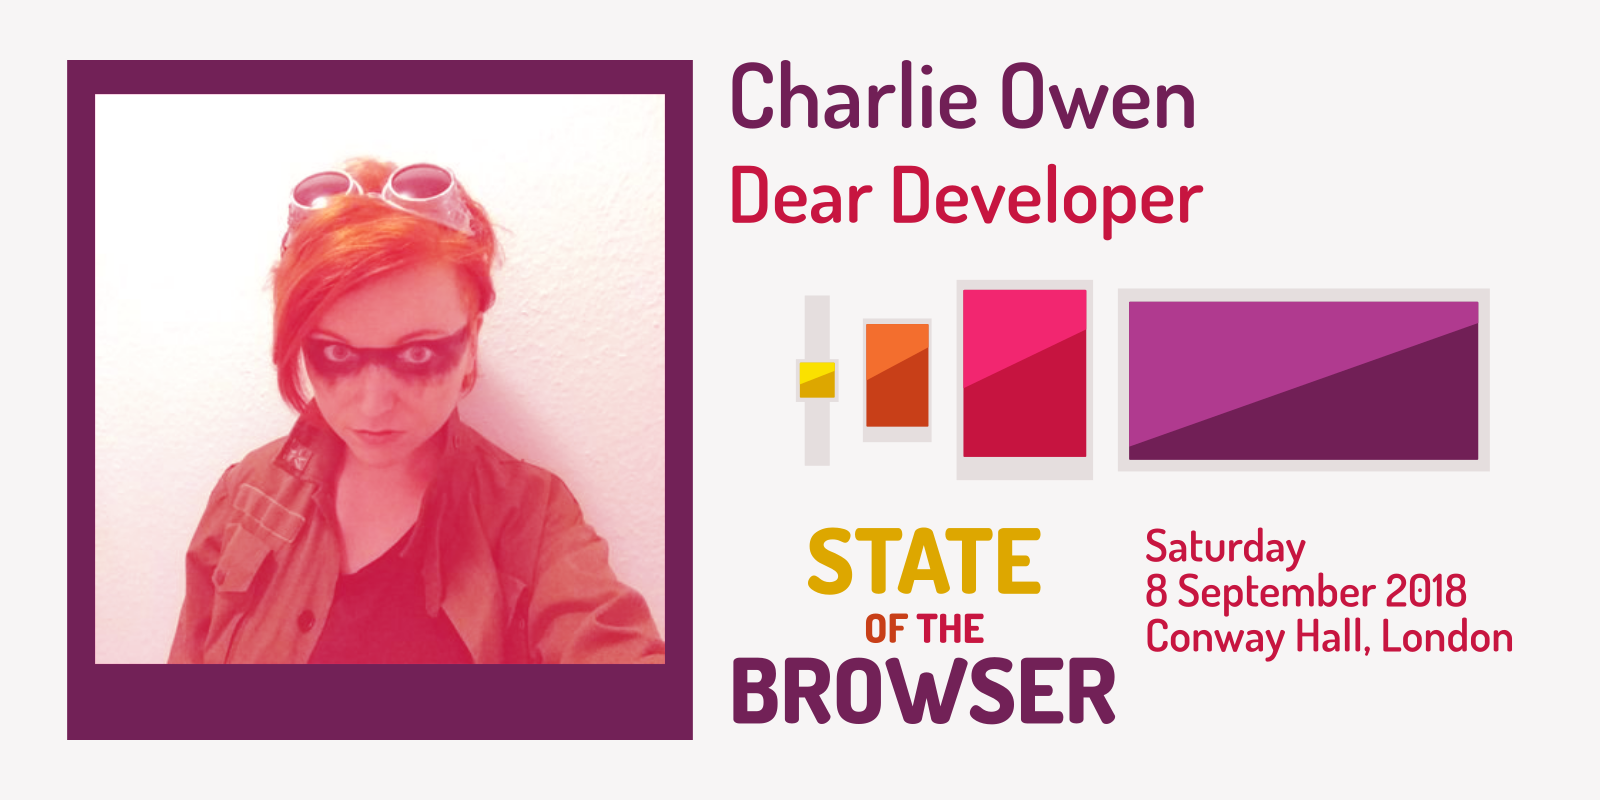
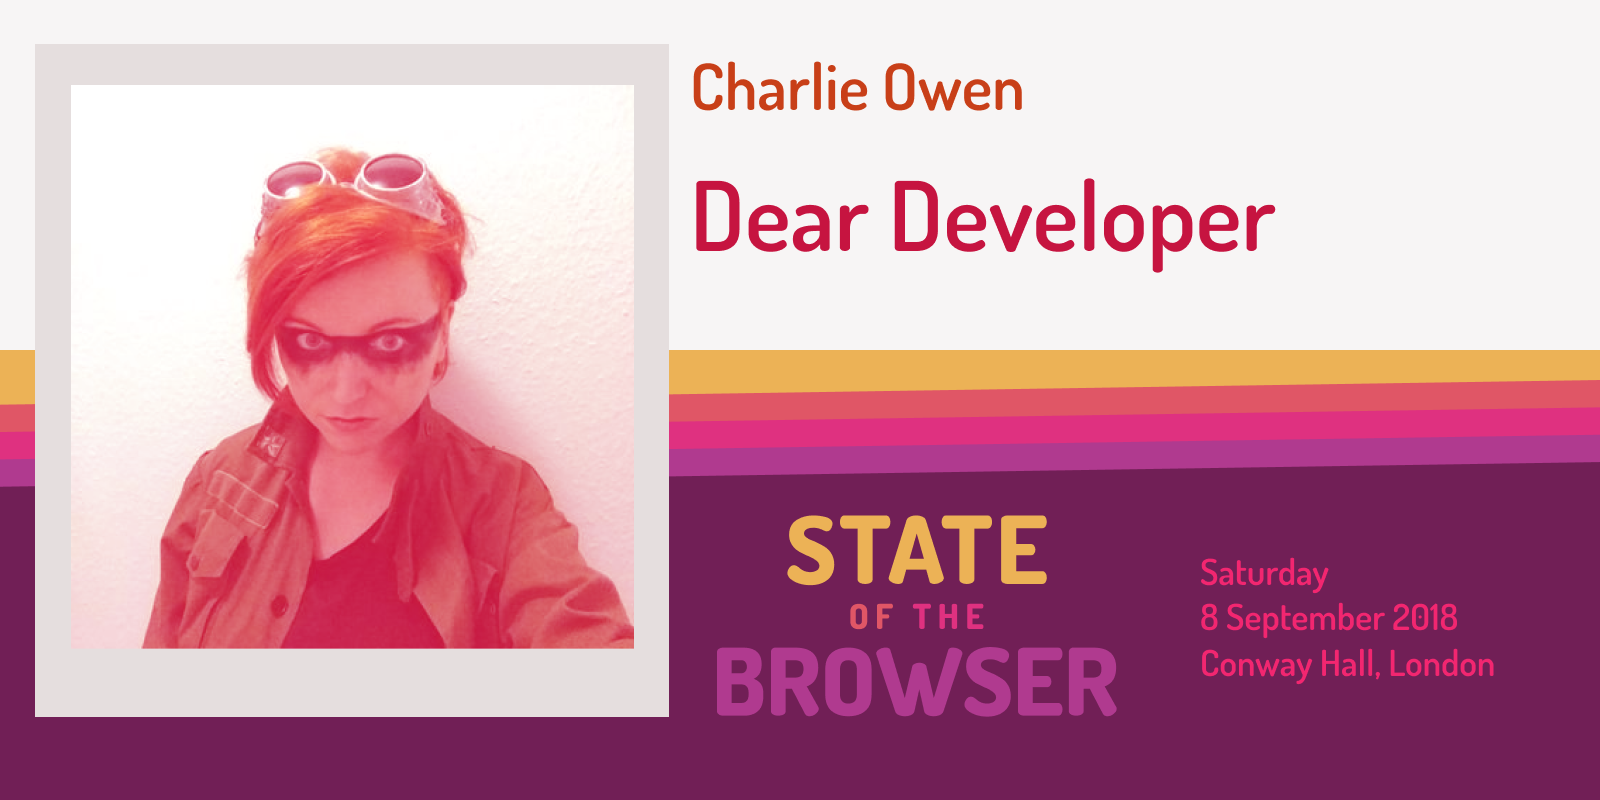
added Dr Ben Livshit talk
- updated design for social media cards

diff --git a/pages/speakers/dr-ben-livshits.md b/pages/speakers/dr-ben-livshits.md
@@ -1,0 +1,18 @@
+---
+title: Dr Ben Livshits
+description: Moving toward Web 3.0 in Brave
+speaker:
+  twitter: convoluted_code
+  image: dr-ben-livshits.jpg
+  bio: |
+    <p>Ben Livshits is Chief Scientist for <a href="https://brave.com/">Brave Software</a>, the company behind the Brave browser, a fast, open source, privacy-focused browser that blocks intrusive ads and trackers. He is also a Reader at Imperial College London and an affiliate professor at the University of Washington. Previously, he was a research scientist at Microsoft Research. He received a bachelor's degree from Cornell University in 1999, and his Ph.D. in Computer Science from Stanford University in 2006.</p> <p>Ben's research interests include application of sophisticated static and dynamic analysis techniques to finding errors in programs. Ben has published papers at PLDI, POPL, Oakland Security, Usenix Security, CCS, SOSP, ICSE, FSE, and many other venues. He is the author of over 100 academic papers, dozens of patents, and multiple tech transfer awards for bringing research into practice.</p>
+lastmod: 2018-07-24
+private: false
+layout: speaker.hbs
+order: 6
+ogImage: /images/cards/dr-ben-livshits.png
+---
+
+[Brave](https://brave.com) is a browser that aims to disrupt online advertising, while simultaneously protecting the privacy of the user. Brave tends to also be quite a bit faster that the competition.
+
+In this talk I will describe some of the novel browser features, such as a cryptocurrency wallet, an ad system, and our push to enable interesting interactions with what some people call Web 3.0.
